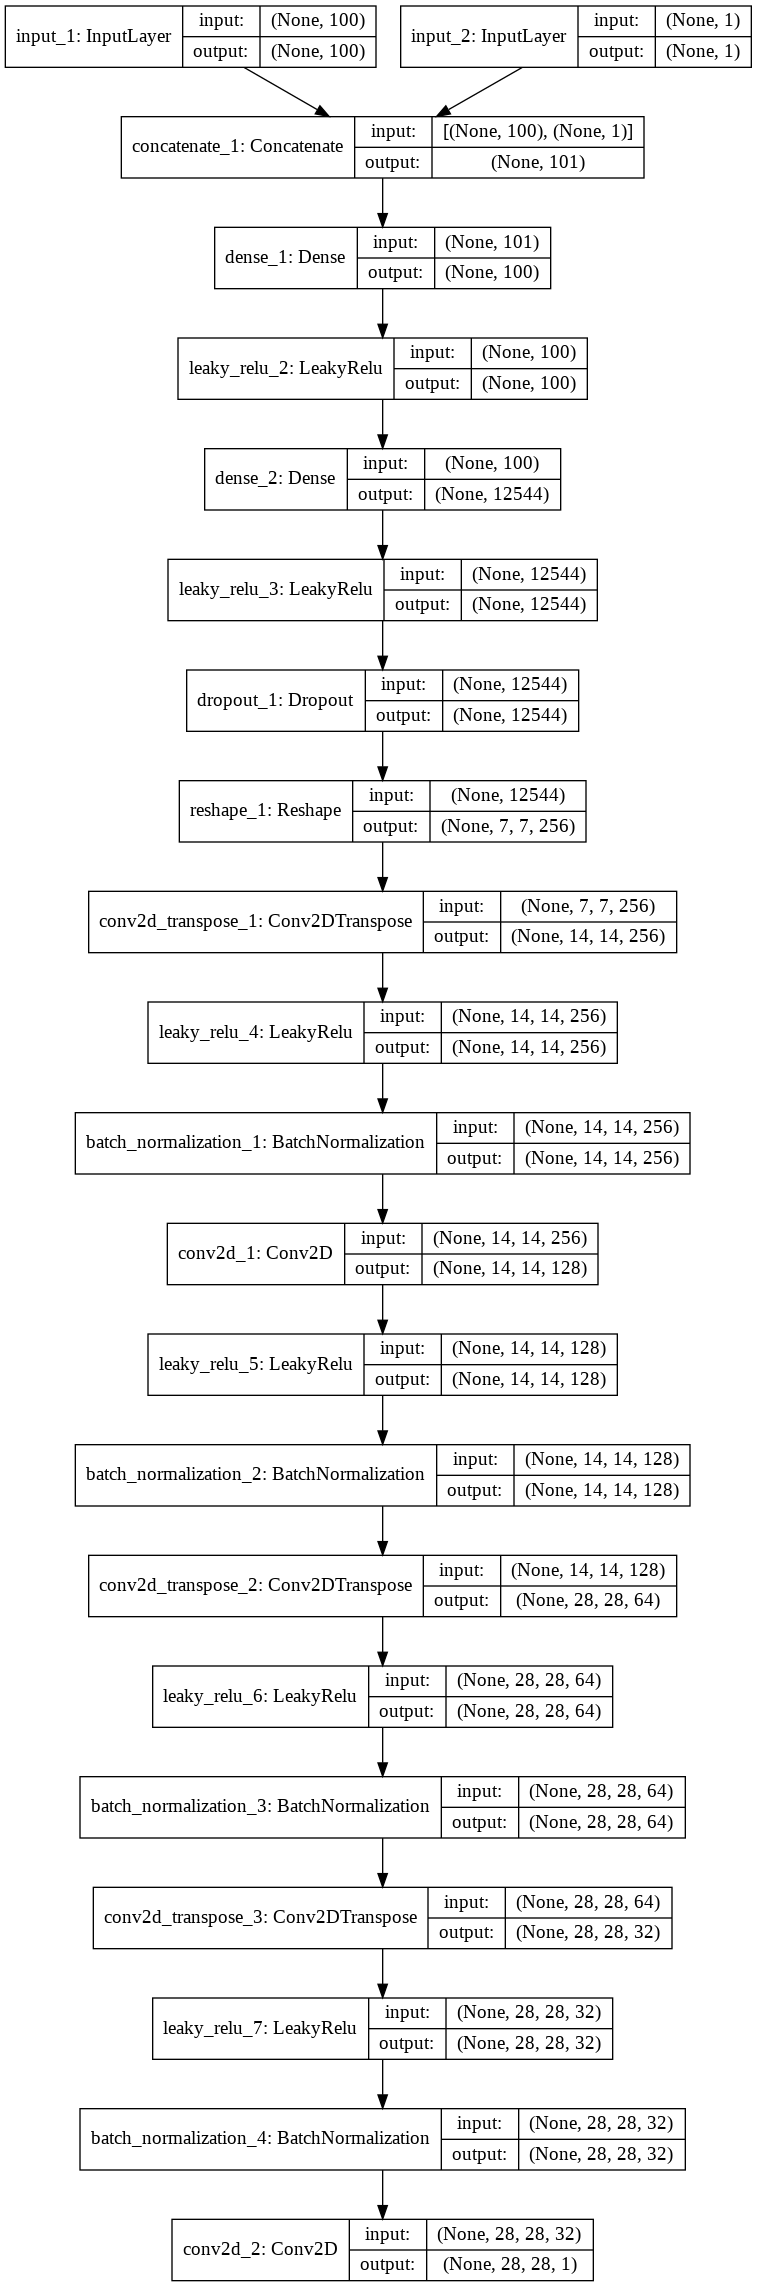
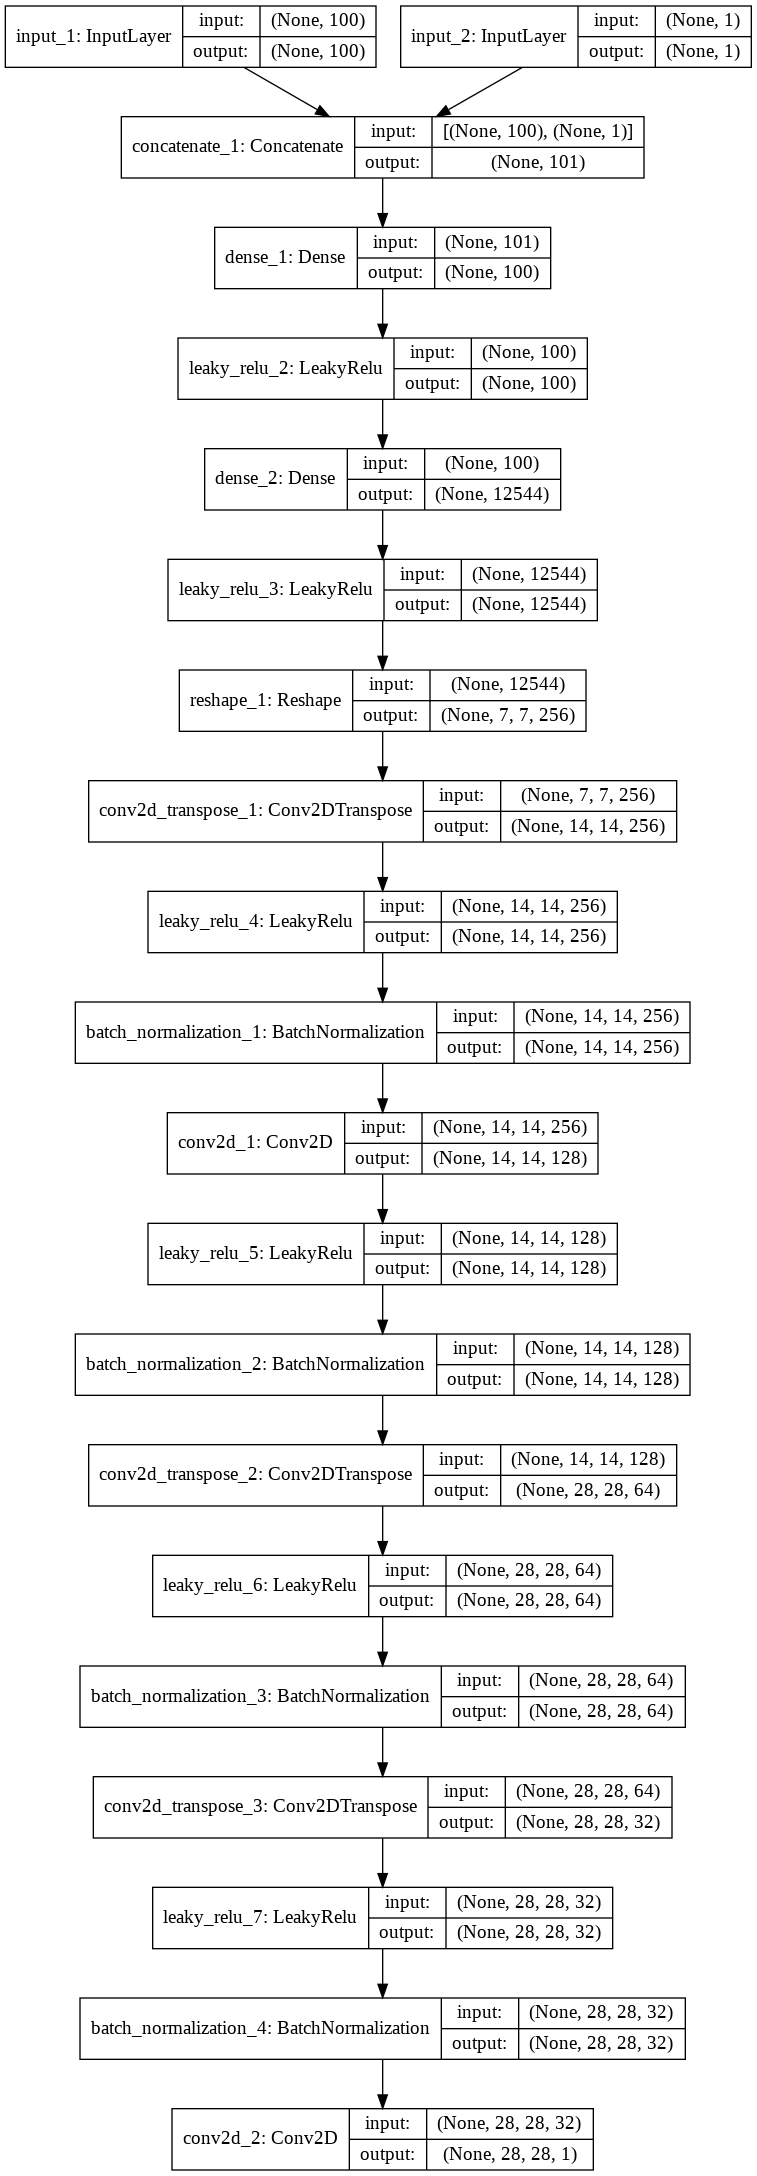
Removed dropout layer from model

Changed region(s): [[0.0304, 0.0, 1.0, 1.0]]

diff --git a/interpolate.py b/interpolate.py
@@ -72,9 +72,6 @@ def reverse_tanh(x):
     #makes -1=0 and 1=1
     return np.rint(x * 127.5 + 127.5).astype("uint8")
 
-#keras treats batch norm wierldy if it belevies we are predicting
-K.clear_session()
-K.set_learning_phase(1)
 #loads the model from the saved model file
 json_file = open('model.json', 'r')
 
@@ -112,10 +109,6 @@ for layer in model.layers:
         
 new_model = Model(inputs=z_in, outputs=prev_layer)
 plot_model(new_model, to_file='interpolate.png', show_shapes=True)
-
-for layer in new_model.layers:
-    if "norm" in layer.name:
-        layer.trainable = False
         
 plt.imshow(new_model.predict(z_1).reshape(28,28), cmap="gray")
 plt.show()
@@ -124,7 +117,7 @@ plt.show()
 
 step_size = 256
 #a matplotlib plot of the images can be shown or they can be saved as a gif
-save = True
+save = bool("y" in input("Save as gif?    "))
 
 fig = plt.figure()
 

diff --git a/viz.py b/viz.py
@@ -69,9 +69,6 @@ def reverse_tanh(x):
     #rounds to the nearest integer to keep matplotlib happy
     return np.rint(x * 0.5 +0.5)
 
-#keras treats batch norm wierldy if it belevies we are predicting
-K.clear_session()
-K.set_learning_phase(1)
 #loads the model from the saved model file
 json_file = open('model.json', 'r')
 
@@ -82,11 +79,6 @@ model = model_from_json(loaded_model_json, mapping)
 
 # load weights into new model
 model.load_weights("gen.h5")
-
-#stops batch norm from still training
-for layer in model.layers:
-    if "norm" in layer.name:
-        layer.trainable = False
         
 #keract requires model compilation
 model.compile(loss="mse", optimizer="adam")

diff --git a/generate.py b/generate.py
@@ -67,10 +67,6 @@ def reverse_tanh(x):
     #makes -1=0 and 1=1
     return x * 0.5 + 0.5
 
-#keras treats batch norm wierldy if it belevies we are predicting
-K.clear_session()
-K.set_learning_phase(1)
-#loads the model from the saved model file
 json_file = open('model.json', 'r')
 
 mapping = {'LeakyRelu':LeakyRelu()}
@@ -80,11 +76,6 @@ model = model_from_json(loaded_model_json, mapping)
 
 # load weights into new model
 model.load_weights("gen.h5")
-
-#stops batch norm from still training
-for layer in model.layers:
-    if "norm" in layer.name:
-        layer.trainable = False
         
 #the number of images to generate
 num = 144

diff --git a/train.py b/train.py
@@ -103,9 +103,8 @@ activation = LeakyRelu()(dense)
 #12544 = 7*7*256 allowing the reshape to take place
 dense = Dense(12544)(activation)
 activation = LeakyRelu()(dense)
-dropout = Dropout(0.5)(activation)
 #reshapes to form a 7x7 image with 256 channels ready for convolutional layers
-reshape = Reshape((7, 7, 256))(dropout)
+reshape = Reshape((7, 7, 256))(activation)
 
 #by making the kernel_size a multiple of the strides checkerbaord patterns are minimised (https://distill.pub/2016/deconv-checkerboard/ and https://arxiv.org/pdf/1609.05158.pdf)
 #stride 2 for transpose conv results in an output size twice as big ie 14x14
